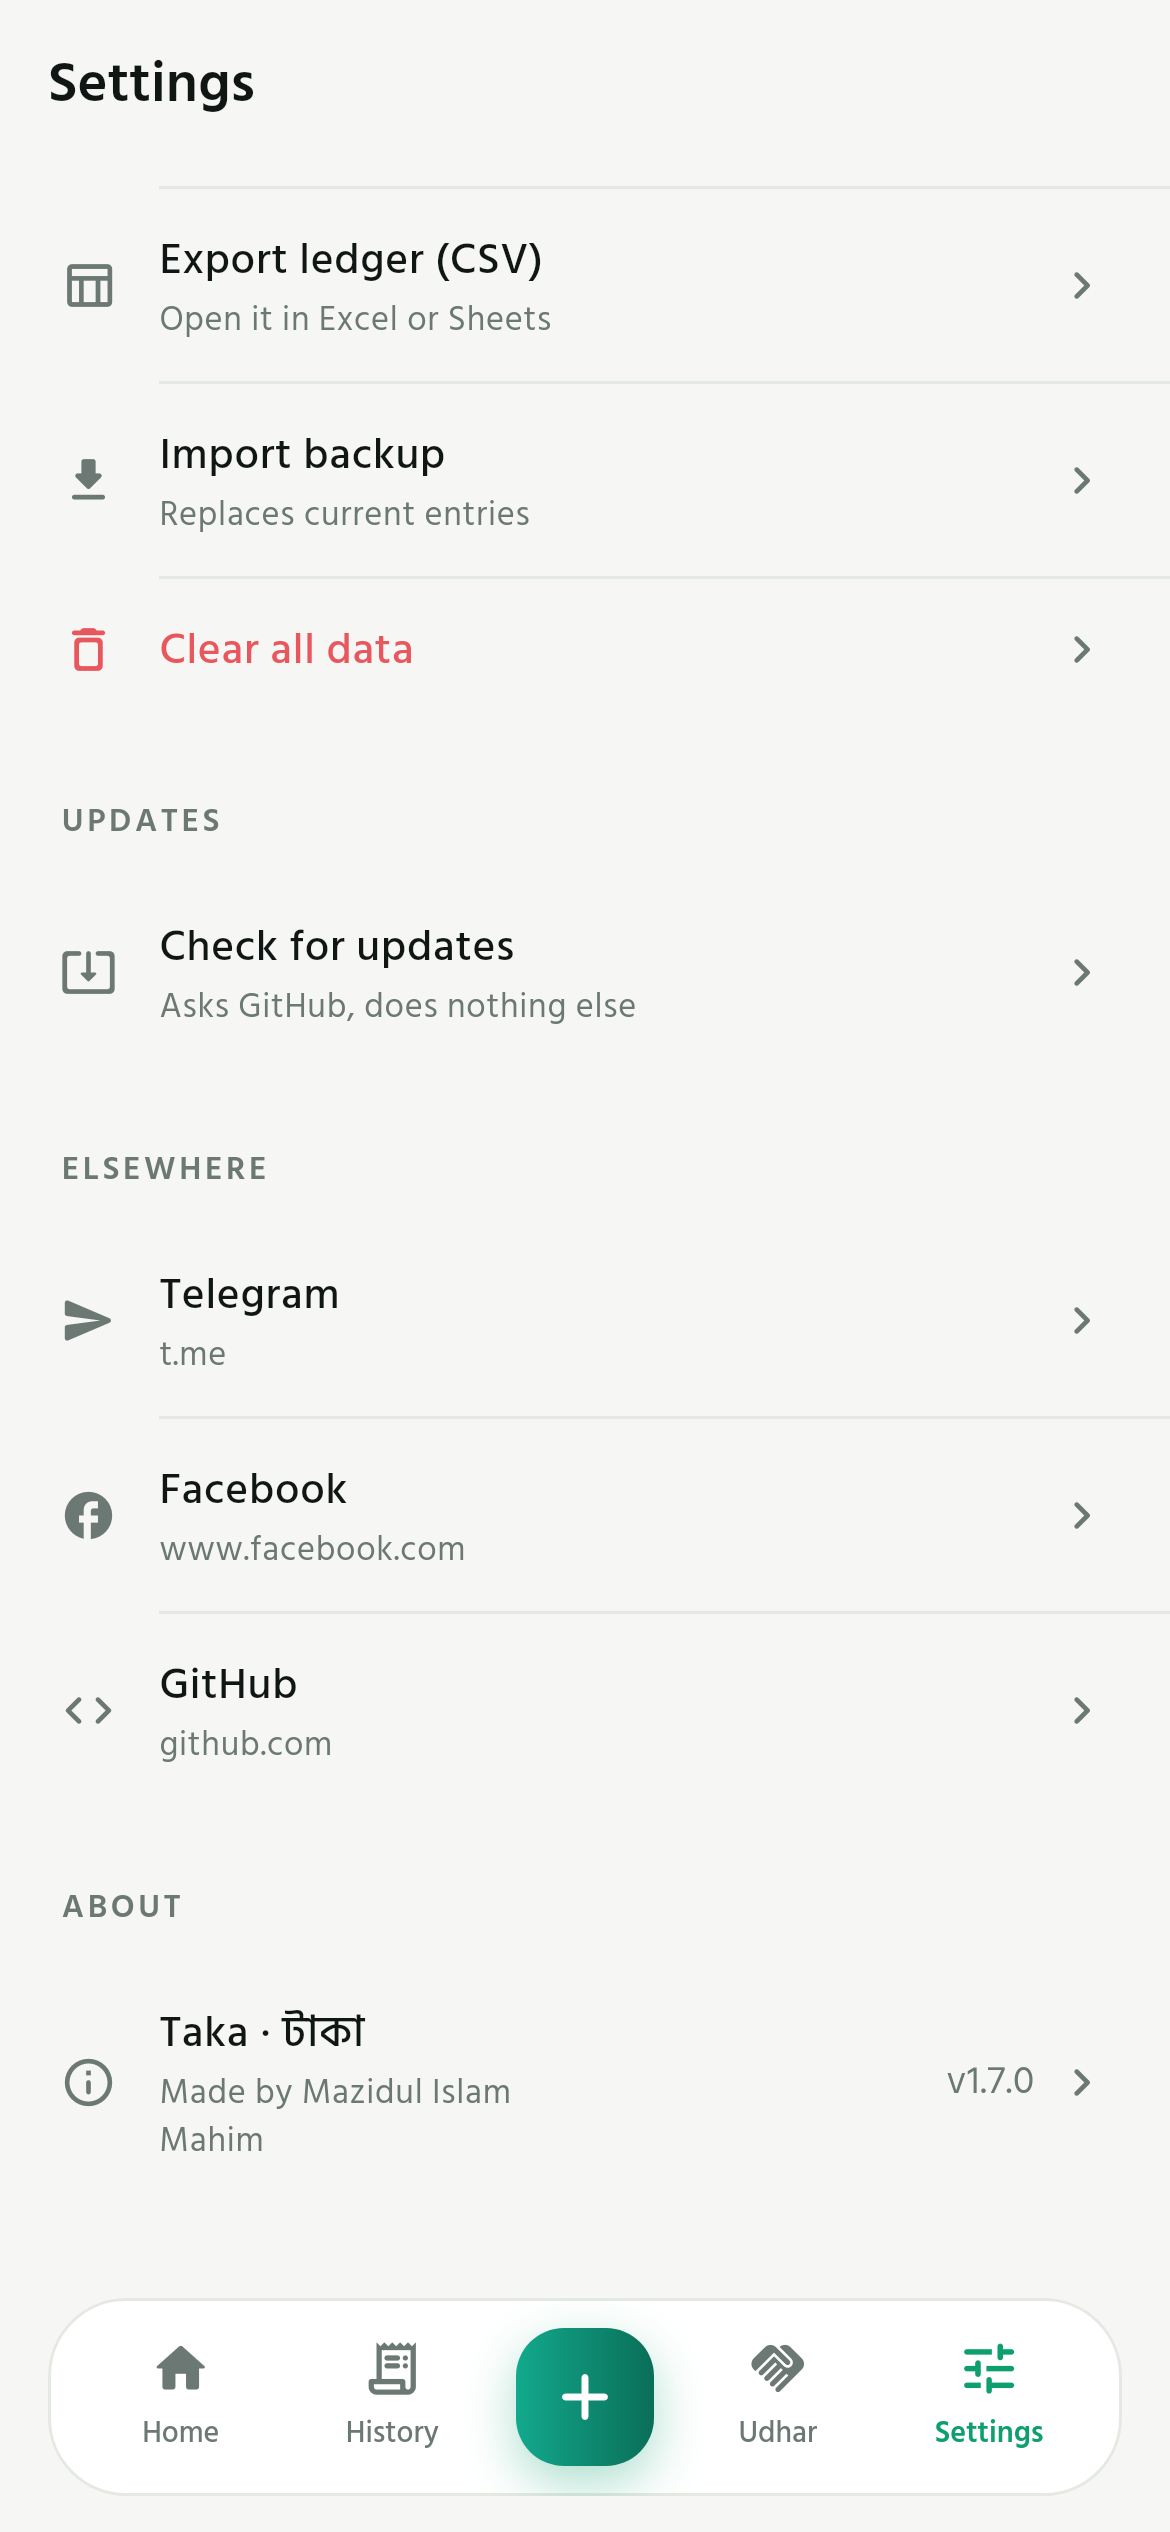
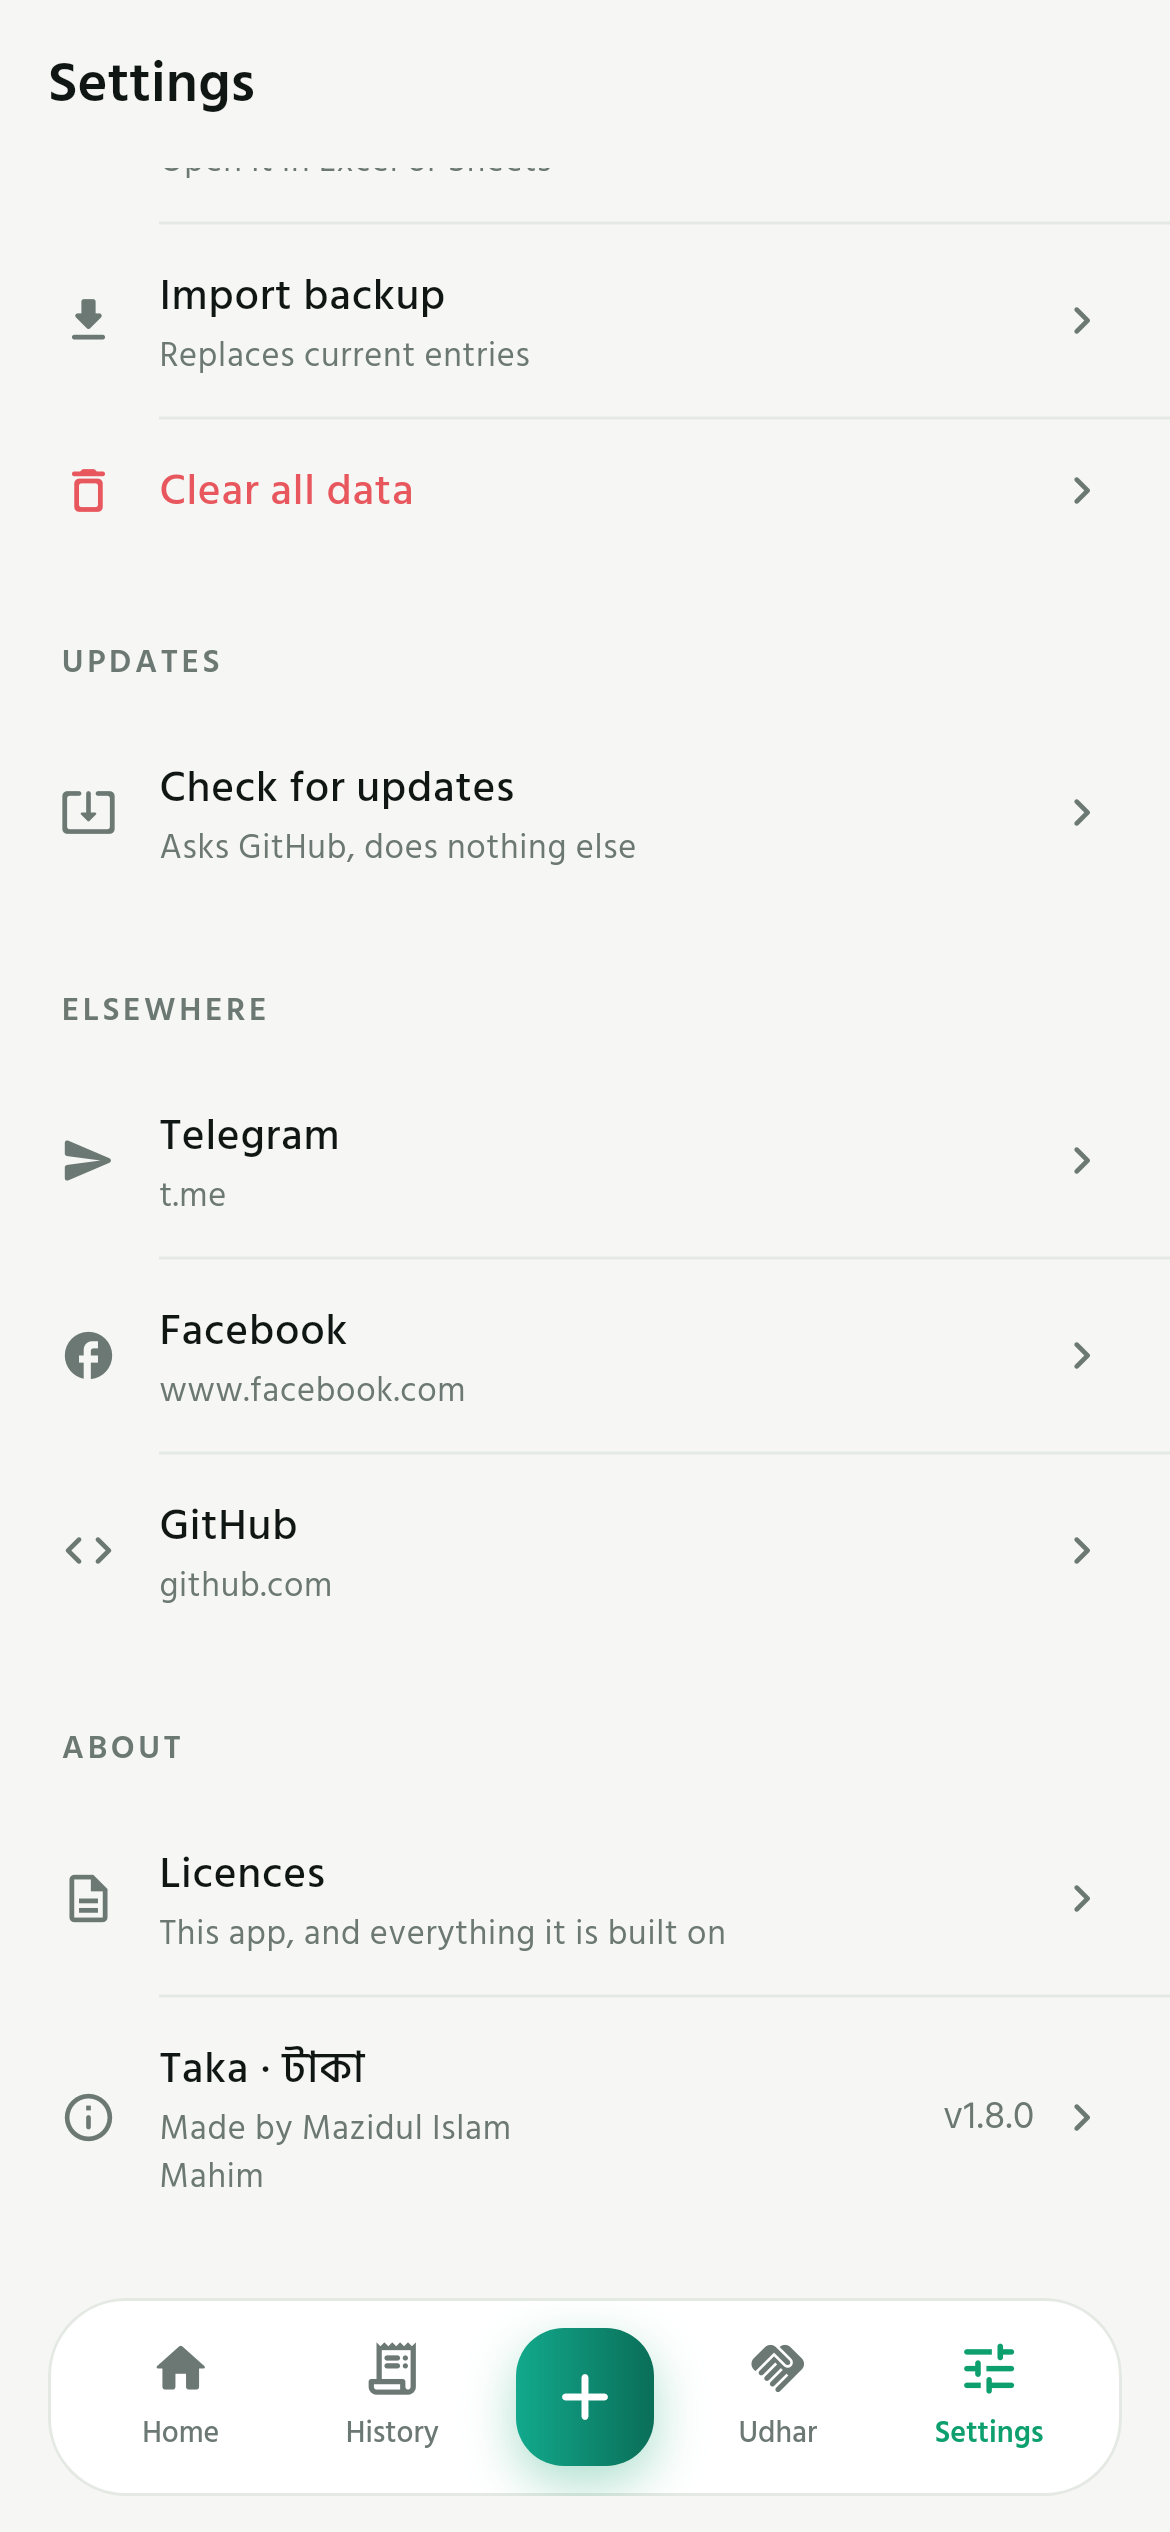
feat(settings): a Licences page that actually prints the licences
Flutter's built-in `showLicensePage` only lists the packages the build tool
noticed, and when that list is empty it renders an empty page — which is exactly
what it did here. A licence screen that shows nothing is worse than none.

So Settings → About → **Licences** is our own screen:

- **This app** — the full PolyForm Noncommercial text, read from the bundled
  `LICENSE` asset, with a plain-words preamble on top.
- **Font** — the SIL Open Font License for Hind Siliguri, likewise from the asset.
- **Third-party packages** — one row that opens Flutter's package licence page for
  everything else (Flutter, sqflite, http, url_launcher).

The licence files are rendered as text, not markdown, so heading marks and link
syntax are stripped — and deliberately *not* in a monospace face, because a font
the app does not bundle renders as empty boxes when the phone lacks it.

Both files are declared as assets and registered with `LicenseRegistry` in
`main()`, so they are readable from the app as well as from the repository.

diff --git a/lib/screens/licenses_screen.dart b/lib/screens/licenses_screen.dart
@@ -1,0 +1,189 @@
+import 'package:flutter/material.dart';
+import 'package:flutter/services.dart';
+
+import '../core/app_info.dart';
+import '../core/app_theme.dart';
+import '../components/entry_row.dart';
+import '../core/motion.dart';
+import '../components/section_title.dart';
+import '../utils/responsive.dart';
+
+/// The licences that ship with this app, as text, in the app.
+///
+/// Flutter's own `showLicensePage` only knows about the packages the build
+/// tool noticed, and it shows nothing at all when that list is empty — which is
+/// what it looks like in a test, and what it would look like if the bundle ever
+/// came up short. So the two licences that matter here are read from the assets
+/// and printed in place, with a link to the package list for everything else.
+class LicensesScreen extends StatelessWidget {
+  const LicensesScreen({super.key});
+
+  @override
+  Widget build(BuildContext context) {
+    final double gutter = Screen.of(context).gutter;
+
+    return Scaffold(
+      appBar: AppBar(title: const Text('Licences')),
+      body: ListView(
+        padding: EdgeInsets.only(
+          top: 4,
+          bottom: 28,
+          left: gutter,
+          right: gutter,
+        ),
+        children: <Widget>[
+          Padding(
+            padding: const EdgeInsets.fromLTRB(20, 4, 20, 6),
+            child: Column(
+              crossAxisAlignment: CrossAxisAlignment.start,
+              children: <Widget>[
+                Text(
+                  '${AppInfo.name} · ${AppInfo.nameBn}',
+                  style: TextStyle(
+                    fontSize: 19,
+                    fontWeight: FontWeight.w700,
+                    color: AppColors.ink(context),
+                  ),
+                ),
+                const SizedBox(height: 2),
+                Text(
+                  'v${AppInfo.version} · free to use for anything noncommercial',
+                  style: TextStyle(
+                    fontSize: 12,
+                    color: AppColors.muted(context),
+                  ),
+                ),
+              ],
+            ),
+          ),
+          const SectionTitle(title: 'This app'),
+          _LicenseText(asset: 'LICENSE'),
+          const SectionTitle(title: 'Font'),
+          _LicenseText(asset: 'assets/fonts/OFL.txt'),
+          const SectionTitle(title: 'Everything else'),
+          _PackagesRow(),
+          const Hairline(indent: 20),
+        ],
+      ),
+    );
+  }
+}
+
+/// One licence file, printed as it is.
+///
+/// Deliberately *not* a monospace face: the app bundles one font family, and a
+/// font that has to be found on the device renders as empty boxes the moment it
+/// is missing. Small type in the app's own font is honest and always readable.
+class _LicenseText extends StatelessWidget {
+  const _LicenseText({required this.asset});
+
+  final String asset;
+
+  @override
+  Widget build(BuildContext context) {
+    return FutureBuilder<String>(
+      future: _load(asset),
+      builder: (BuildContext context, AsyncSnapshot<String> snapshot) {
+        if (snapshot.connectionState != ConnectionState.done) {
+          return const Padding(
+            padding: EdgeInsets.fromLTRB(20, 8, 20, 12),
+            child: LinearProgressIndicator(minHeight: 2),
+          );
+        }
+        return Padding(
+          padding: const EdgeInsets.fromLTRB(20, 0, 20, 10),
+          child: Text(
+            _plain(snapshot.data ?? ''),
+            style: TextStyle(
+              fontSize: 12,
+              height: 1.6,
+              color: AppColors.muted(context),
+            ),
+          ),
+        );
+      },
+    );
+  }
+
+  /// The licence files are markdown. Headings and link syntax would be noise in
+  /// a text block, so the punctuation is dropped and the words are kept.
+  String _plain(String raw) {
+    return raw
+        .replaceAll(RegExp(r'^#+\s*', multiLine: true), '')
+        .replaceAllMapped(
+          RegExp(r'\[([^\]]+)\]\([^)]*\)'),
+          (Match match) => match[1] ?? '',
+        )
+        .replaceAllMapped(RegExp(r'<([^>\s]+)>'), (Match m) => m[1] ?? '')
+        .replaceAll('**', '')
+        .replaceAll(RegExp(r'\n{3,}'), '\n\n')
+        .trim();
+  }
+
+  Future<String> _load(String path) async {
+    try {
+      return await rootBundle.loadString(path);
+    } catch (_) {
+      return 'This licence file could not be read from the app bundle ($path). '
+          'It is in the repository, next to the code.';
+    }
+  }
+}
+
+class _PackagesRow extends StatelessWidget {
+  const _PackagesRow();
+
+  @override
+  Widget build(BuildContext context) {
+    return Pressable(
+      onTap: () => showLicensePage(
+        context: context,
+        applicationName: '${AppInfo.name} · ${AppInfo.nameBn}',
+        applicationVersion: 'v${AppInfo.version}',
+        applicationLegalese:
+            'PolyForm Noncommercial License 1.0.0\n© ${AppInfo.author}',
+      ),
+      scale: 0.985,
+      child: Padding(
+        padding: const EdgeInsets.symmetric(horizontal: 20, vertical: 13),
+        child: Row(
+          children: <Widget>[
+            Icon(
+              Icons.inventory_2_outlined,
+              size: 19,
+              color: AppColors.muted(context),
+            ),
+            const SizedBox(width: 14),
+            Expanded(
+              child: Column(
+                crossAxisAlignment: CrossAxisAlignment.start,
+                children: <Widget>[
+                  Text(
+                    'Third-party packages',
+                    style: TextStyle(
+                      fontSize: 14.5,
+                      fontWeight: FontWeight.w500,
+                      color: AppColors.ink(context),
+                    ),
+                  ),
+                  Text(
+                    'Flutter, sqflite, http, url_launcher and the rest',
+                    style: TextStyle(
+                      fontSize: 11.5,
+                      color: AppColors.muted(context),
+                    ),
+                  ),
+                ],
+              ),
+            ),
+            Icon(
+              Icons.chevron_right_rounded,
+              size: 20,
+              color: AppColors.muted(context),
+            ),
+          ],
+        ),
+      ),
+    );
+  }
+}

diff --git a/test/screens_test.dart b/test/screens_test.dart
@@ -270,6 +270,40 @@ void main() {
     expect(find.textContaining('extra'), findsWidgets);
   });
 
+  testWidgets('the licences page opens with this app and its dependencies', (
+    WidgetTester tester,
+  ) async {
+    await pumpAt(tester, const Size(390, 844));
+    await tester.tap(find.byIcon(Icons.tune_rounded));
+    await tester.pumpAndSettle();
+
+    final Finder vertical = find.byWidgetPredicate(
+      (Widget widget) =>
+          widget is ListView && widget.scrollDirection == Axis.vertical,
+    );
+    await tester.drag(vertical.first, const Offset(0, -700));
+    await tester.pumpAndSettle();
+    await tester.tap(find.text('Licences'));
+    await tester.pumpAndSettle();
+
+    await tester.runAsync(
+      () => Future<void>.delayed(const Duration(milliseconds: 200)),
+    );
+    await tester.pumpAndSettle();
+
+    expect(tester.takeException(), isNull);
+    // The actual terms are on screen, read from the bundle — not an empty page.
+    expect(find.textContaining('PolyForm Noncommercial'), findsWidgets);
+
+    // The font's licence is further down the same page.
+    await tester.scrollUntilVisible(
+      find.textContaining('SIL Open Font License'),
+      300,
+      scrollable: find.byType(Scrollable).last,
+    );
+    expect(find.textContaining('SIL Open Font License'), findsWidgets);
+  });
+
   testWidgets('dark mode toggle persists and repaints', (
     WidgetTester tester,
   ) async {

diff --git a/lib/core/licenses.dart b/lib/core/licenses.dart
@@ -1,0 +1,35 @@
+import 'package:flutter/foundation.dart';
+import 'package:flutter/services.dart';
+
+/// Registers the two licences that ship as files rather than as packages, so the
+/// in-app Licences page can show them: this app's own terms and the Hind Siliguri
+/// font's SIL Open Font License.
+///
+/// Flutter already collects the BSD-style licences of every package it bundles
+/// (sqflite, http, url_launcher, Flutter itself) into `LicenseRegistry`; these two
+/// are added here because they are assets, not dependencies.
+void registerAppLicenses() {
+  LicenseRegistry.addLicense(() async* {
+    yield LicenseEntryWithLineBreaks(<String>[
+      'Taka',
+      'টাকা',
+    ], await _asset('LICENSE'));
+  });
+
+  LicenseRegistry.addLicense(() async* {
+    yield LicenseEntryWithLineBreaks(<String>[
+      'Hind Siliguri (Indian Type Foundry)',
+    ], await _asset('assets/fonts/OFL.txt'));
+  });
+}
+
+Future<String> _asset(String path) async {
+  try {
+    return await rootBundle.loadString(path);
+  } catch (_) {
+    // A missing asset is not worth crashing the licences page over; say so
+    // plainly instead of showing nothing.
+    return 'This licence file could not be read from the app bundle ($path). '
+        'It is available in the repository.';
+  }
+}

diff --git a/test/golden_test.dart b/test/golden_test.dart
@@ -201,6 +201,26 @@ void main() {
     await _shot(tester, 'settings_updates');
   });
 
+  testWidgets('22 licences', (WidgetTester tester) async {
+    await _render(tester, darkMode: false);
+    await tester.tap(find.byIcon(Icons.tune_rounded));
+    await tester.pumpAndSettle();
+    final Finder list = find.byWidgetPredicate(
+      (Widget widget) =>
+          widget is ListView && widget.scrollDirection == Axis.vertical,
+    );
+    await tester.drag(list.first, const Offset(0, -700));
+    await tester.pumpAndSettle();
+    await tester.tap(find.text('Licences'));
+    await tester.pumpAndSettle();
+    // The page reads the bundled NOTICES asset, which needs real time.
+    await tester.runAsync(
+      () => Future<void>.delayed(const Duration(milliseconds: 400)),
+    );
+    await tester.pumpAndSettle();
+    await _shot(tester, 'licences');
+  });
+
   testWidgets('19 categories', (WidgetTester tester) async {
     await _render(tester, darkMode: false);
     await tester.tap(find.byIcon(Icons.tune_rounded));

diff --git a/lib/screens/settings_screen.dart b/lib/screens/settings_screen.dart
@@ -17,6 +17,7 @@ import '../store/settings_actions.dart';
 import '../utils/currency_catalog.dart';
 import '../utils/export_data.dart';
 import 'budgets_screen.dart';
+import 'licenses_screen.dart';
 import 'about_screen.dart';
 import 'categories_screen.dart';
 import '../core/clock.dart';
@@ -298,6 +299,14 @@ class SettingsScreen extends StatelessWidget {
               const SectionTitle(title: 'About'),
               SettingsGroup(
                 children: <Widget>[
+                  SettingsRow(
+                    icon: Icons.description_outlined,
+                    title: 'Licences',
+                    subtitle: 'This app, and everything it is built on',
+                    onTap: () =>
+                        Navigator.of(context)
+                            .push(slideFadeRoute<void>(const LicensesScreen())),
+                  ),
                   SettingsRow(
                     icon: Icons.info_outline_rounded,
                     title: '${AppInfo.name} · ${AppInfo.nameBn}',

diff --git a/lib/main.dart b/lib/main.dart
@@ -2,6 +2,7 @@ import 'package:flutter/material.dart';
 import 'package:flutter/services.dart';
 
 import 'app.dart';
+import 'core/licenses.dart';
 import 'store/app_state.dart';
 
 /// Entry point. Everything is local: the SQLite file lives in the app's private
@@ -17,5 +18,6 @@ void main() {
   // Not awaited on purpose; [TakaApp] listens and swaps itself in.
   AppState.instance.load();
 
+  registerAppLicenses();
   runApp(const TakaApp());
 }

diff --git a/lib/core/app_info.dart b/lib/core/app_info.dart
@@ -6,7 +6,7 @@ class AppInfo {
   static const String name = 'Taka';
   static const String nameBn = 'টাকা';
   static const String tagline = 'Amar taka gelota koi?';
-  static const String version = '1.7.0';
+  static const String version = '1.8.0';
 
   /// The person this was built for, and by.
   static const String author = 'Mazidul Islam Mahim';
